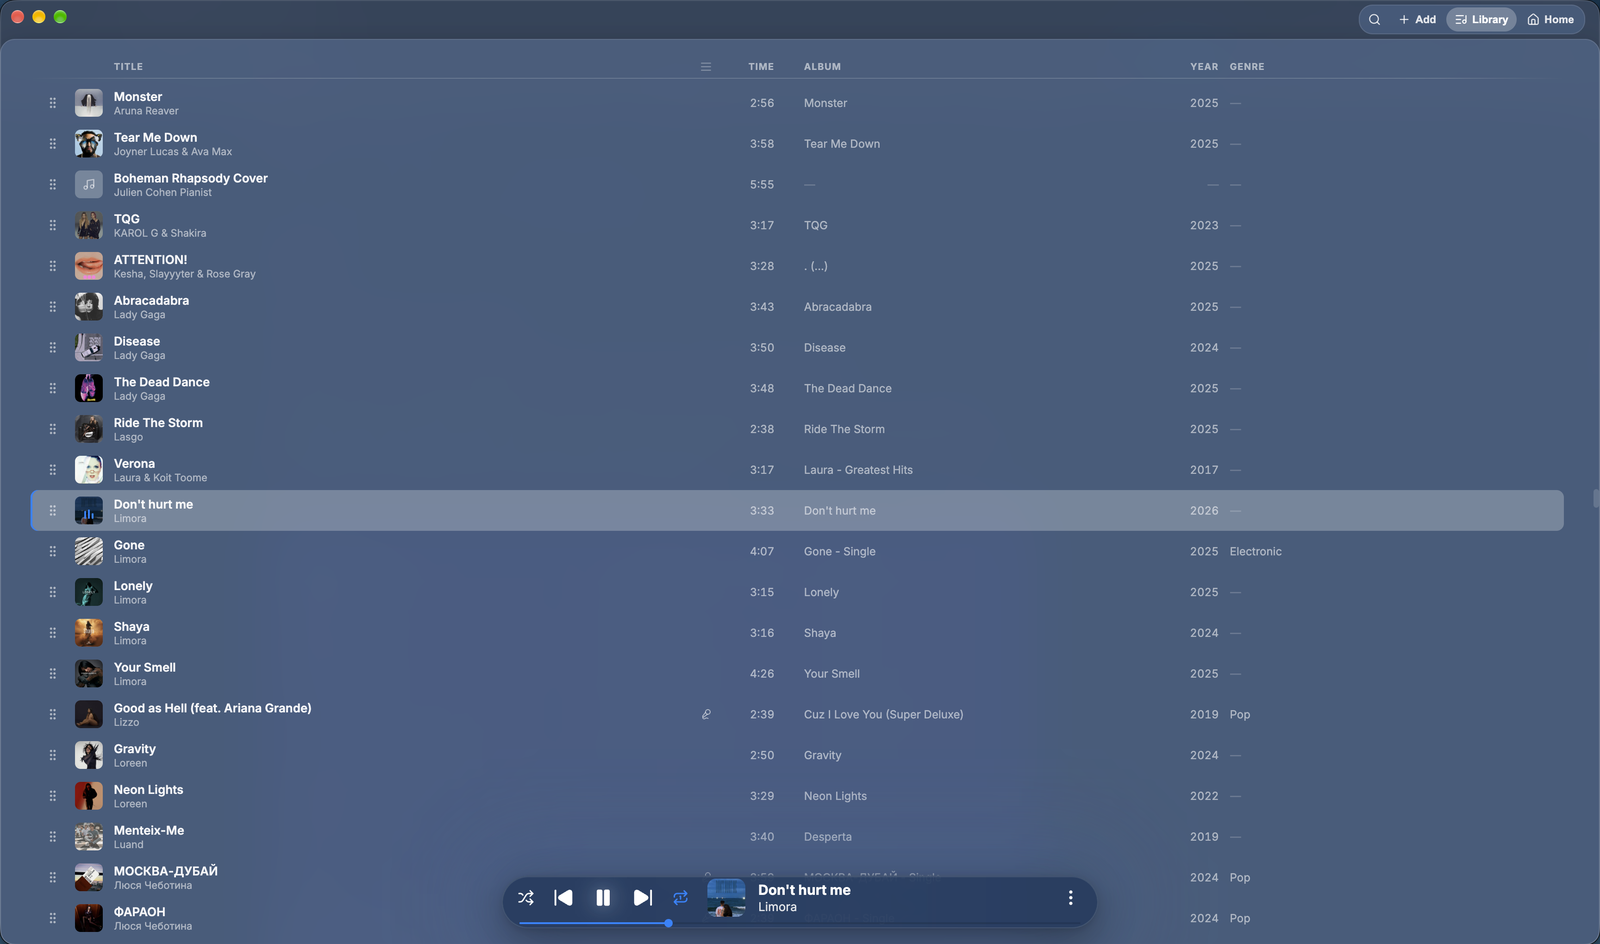
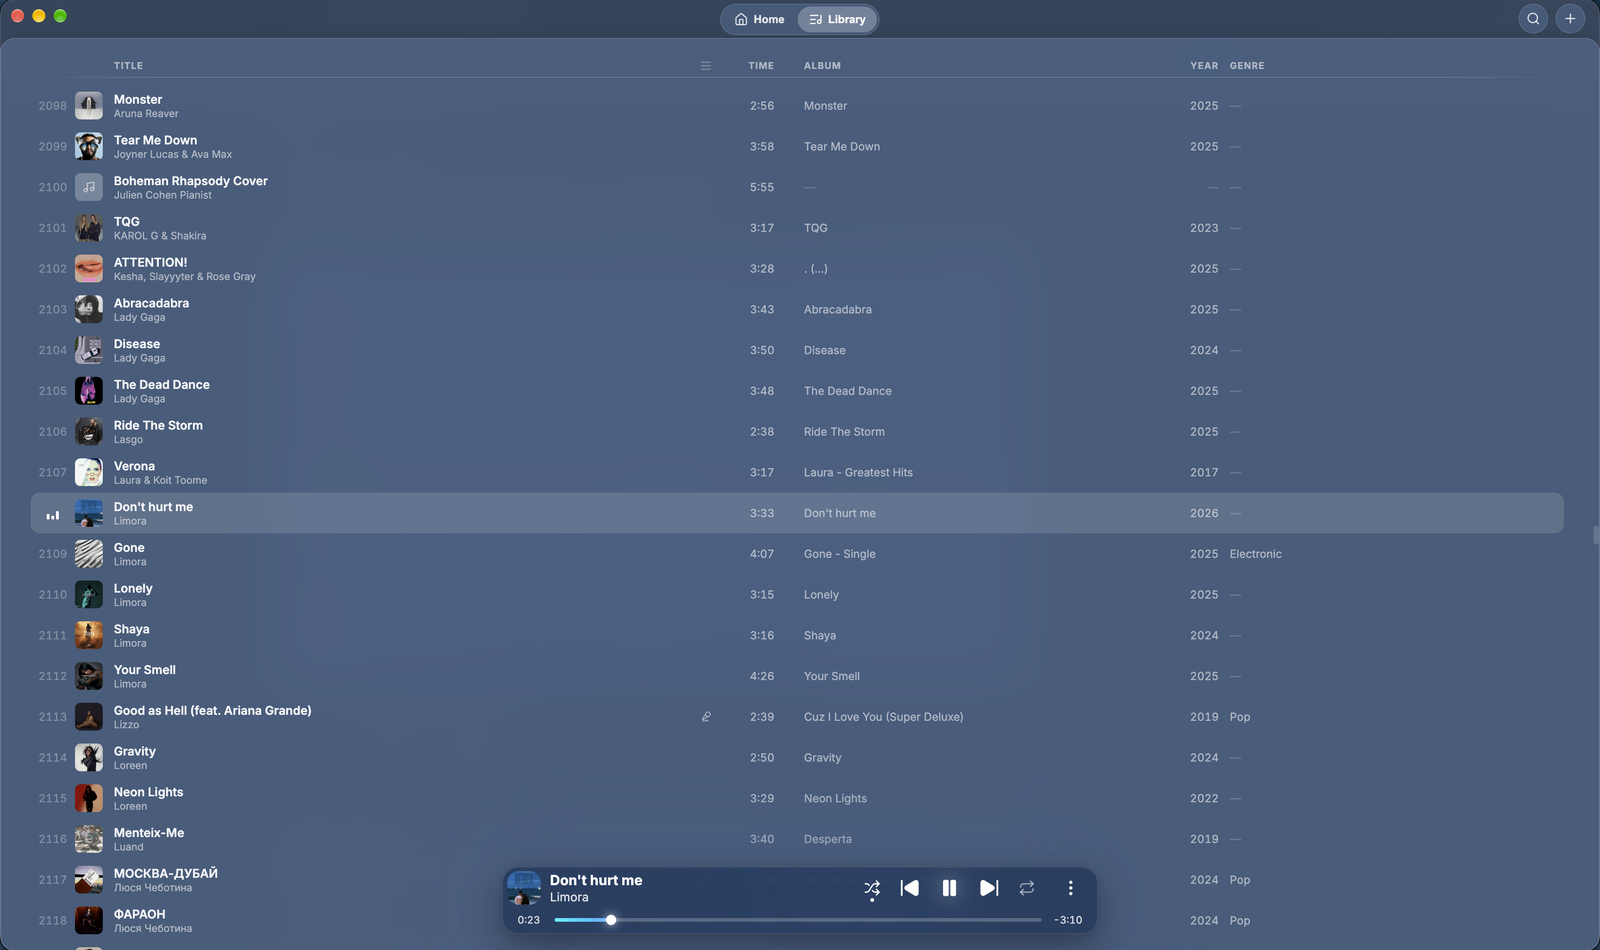
Rewrite the README for 1.7 with new screenshots and a Chill mode GIF
Covers Chill mode, the three window modes, the menus and shortcuts, the
add-songs dialog and search, and replaces every screenshot with a fresh
capture, exported at 1600px. Two spots that showed a personal name in a
track title are blurred.

diff --git a/README.md b/README.md
@@ -6,7 +6,7 @@
 
 **A beautiful, native-feeling music player for macOS.**
 
-Glassmorphic UI, a tag editor that actually writes to disk, and it stays smooth at 20,000 tracks.
+Glassmorphic UI, a tag editor that actually writes to disk, scenes for when you just want to sit back and listen — and it stays smooth at 20,000 tracks.
 
 [![Latest release](https://img.shields.io/github/v/release/panawel/sonus-player?style=flat-square&color=0A84FF)](https://github.com/panawel/sonus-player/releases/latest)
 [![Downloads](https://img.shields.io/github/downloads/panawel/sonus-player/total?style=flat-square&color=0A84FF)](https://github.com/panawel/sonus-player/releases)
@@ -25,6 +25,17 @@ Glassmorphic UI, a tag editor that actually writes to disk, and it stays smooth 
 **[⬇ Download Sonus for macOS](https://github.com/panawel/sonus-player/releases/latest)** — universal `.dmg`, runs natively on both Intel and Apple Silicon.
 
 Open the `.dmg`, drag **Sonus** to your Applications folder, then read the next section before launching — it takes ten seconds and saves confusion.
+
+### What's new in 1.7
+
+- **[Chill mode](#chill-mode)** — turn Now Playing into a scene: a spinning turntable, a hammock by the sea, or a rainy study room. Rain, waves, lightning, and the song's own lyrics typed out on a laptop.
+- **[Three window modes](#one-window-three-shapes)** — normal, phone-narrow, and a tiny mini player, switchable from the **File** menu or by simply resizing.
+- **[A real menu bar](#menus-and-shortcuts)** — a rebuilt **File** menu and a new **Controls** menu, with keyboard shortcuts for everything.
+- **[Search](#search)** is now a floating panel (`⌘F`) over whatever page you're on.
+- **[A clearer add-songs dialog](#adding-music)** that says what each choice does, and works in every window size.
+- **A calmer track list** — white selection, animated "now playing" bars, a footer with the song count and total time, and a refreshed icon.
+
+---
 
 ## Opening Sonus the first time
 
@@ -55,7 +66,7 @@ xattr -dr com.apple.quarantine /Applications/Sonus.app
 Every release publishes **SHA-256 checksums** so you can verify your download matches what was built:
 
 ```bash
-shasum -a 256 ~/Downloads/Sonus-1.0.0-universal.dmg
+shasum -a 256 ~/Downloads/Sonus-1.7.0-universal.dmg
 ```
 
 > Prefer not to run unsigned software? [Build it yourself](#building-from-source) — it's four commands.
@@ -66,9 +77,9 @@ shasum -a 256 ~/Downloads/Sonus-1.0.0-universal.dmg
 
 ### A real music library, not a file list
 
-Drop a folder in and Sonus reads the tags, extracts cover art, and builds a browsable library. Sorting is driven by clicking a column — no menus. Multi-select with `⇧`/`⌘`, drag to reorder, delete with `⌫`.
+Drop a folder in and Sonus reads the tags, extracts cover art, and builds a browsable library. Sorting is driven by clicking a column — no menus. Multi-select with `⇧`/`⌘`, drag to reorder, delete with `⌫`. The song playing right now is marked with animated bars where its number would be, the selection is a clean white ring, and a footer under the list tells you how many songs you're looking at and how long they run.
 
-**It stays fast when the library gets big.** Every screenshot here is a real ~4,400-track library, and the track list is fully virtualized: at 20,000 tracks fewer than 80 rows exist in the DOM at any moment, and re-sorting the whole library is effectively instant. Album art never lives in memory as base64 — tracks carry a thumbnail reference, and full-resolution art is loaded only when something actually displays it.
+**It stays fast when the library gets big.** Every screenshot here is a real ~4,000-track library, and the track list is fully virtualized: at 20,000 tracks fewer than 80 rows exist in the DOM at any moment, and re-sorting the whole library is effectively instant. Album art never lives in memory as base64 — tracks carry a thumbnail reference, and full-resolution art is loaded only when something actually displays it.
 
 <img src="docs/assets/library.png" alt="Library view" width="860">
 
@@ -78,30 +89,82 @@ Not a dashboard for its own sake: every panel is a way into your music. A rotati
 
 <img src="docs/assets/home.png" alt="Home view" width="860">
 
-Further down, your library as data: songs by year, a sound-quality breakdown by bitrate, how complete your metadata actually is, and a language split. Every segment is clickable — tap the 128 kbps slice to see exactly which tracks are dragging your library down, or the 2,192 missing lyrics to go fix them.
+Further down, your library as data: songs by year, a sound-quality breakdown by bitrate, how complete your metadata actually is, and a language split. Every segment is clickable — tap the 128 kbps slice to see exactly which tracks are dragging your library down, or the missing lyrics to go fix them.
 
 <img src="docs/assets/stats.png" alt="Library statistics — songs by year, sound quality, completeness and languages" width="860">
 
-Click any artist, album, year or quality tier and you land on its own page, with the same track list engine and a Play All / Shuffle header.
+Click any artist, album, year or quality tier and you land on its own page, with the same track list engine, a Play All / Shuffle header, and a right-click menu for Play Next, Start Mix, Edit Tags, Reveal in Finder and more.
 
-<img src="docs/assets/artist.png" alt="Artist detail view" width="860">
+<img src="docs/assets/details.png" alt="Artist details page with the track context menu" width="860">
+
+### Search
+
+`⌘F` (or the search button) opens a floating panel over whatever page you're on: artists, albums and songs from your whole library — or just the page you're looking at, when you're on a details page. The list behind it filters live as you type.
 
 ### Now Playing
 
-Full-screen artwork with an ambient colour wash sampled from the cover, and embedded lyrics in a side panel — with right-to-left script detection, so Hebrew and Arabic lyrics render correctly instead of backwards.
+Full-window artwork with an ambient colour wash sampled from the cover, and embedded lyrics in a side panel — with right-to-left script detection, so Hebrew and Arabic lyrics render correctly instead of backwards.
 
-<img src="docs/assets/now-playing.png" alt="Now Playing with lyrics" width="860">
+<img src="docs/assets/now-playing-lyrics.png" alt="Now Playing with lyrics" width="860">
 
-### Resizes down to phone width
+The player floats at the bottom of every page as a glass pill: artwork, seek line, and transport controls. **Shuffle** and **repeat** show a small dot under the icon when they're on, so you can tell at a glance.
 
-The window isn't locked to one desktop shape — it resizes all the way down to phone-portrait proportions (as narrow as ~380px). Below that point the whole interface reflows rather than just shrinking: Search/Add/Library/Home collapse to a single icon-only pill, the player collapses to a compact bar with cover art and playback controls, and Now Playing switches to a single-column view with a tab for lyrics. Same library, same tag editor, same controls — just narrower.
+### Chill mode
 
-<p>
-<img src="docs/assets/narrow-home.png" alt="Home at phone-portrait width" width="300">
-<img src="docs/assets/narrow-library.png" alt="Library at phone-portrait width" width="300">
-<img src="docs/assets/artist-narrow.png" alt="Artist detail view at phone-portrait width" width="300">
-<img src="docs/assets/narrow-now-playing.png" alt="Now Playing at phone-portrait width" width="300">
+At full width, one click (or **File → Chill Mode**, `⇧⌘C`) turns Now Playing into a scene, picked from a small popup. The song's artwork is part of every one:
+
+- **The turntable** — the artwork becomes the spinning record.
+- **The hammock** — the artwork is the screen of a phone held by someone swinging by the sea. The palms sway, the sea shimmers, waves wash up the shore, and the whole hammock rocks.
+- **The study room** — the artwork hangs on the posters and polaroids of a rainy room. Rain runs down the window, lightning flashes now and then, steam rises from the mug, and a girl types — and stops — to your music. On her laptop's screen: the song's own lyrics, when it has them.
+
+<div align="center">
+<img src="docs/assets/chill-mode.gif" alt="Chill mode — the turntable scene" width="800">
+</div>
+
+A minimal bar fades away (traffic lights and all) when you stop moving the mouse, and the framing adapts to any window size.
+
+### One window, three shapes
+
+The window isn't locked to one desktop shape. Pick a shape from the **File** menu — or just drag the window's edge:
+
+| | Size | What changes |
+| --- | --- | --- |
+| **Filled Screen Mode** | fills the screen | the full desktop layout |
+| **Narrow Mode** | 440 × 760 | a phone-portrait layout: icon-only tabs, a compact player, and a single-column Now Playing with a Song/Lyrics switch |
+| **Mini Mode** | 380 × 200 | just the artwork, track, seek line and transport controls |
+
+Same library, same tag editor, same controls — just narrower. Make a window short and it becomes the mini player; make it tall again and you're back exactly where you were.
+
+<p align="center">
+<img src="docs/assets/narrow-home.png" alt="Home at phone-portrait width" width="200">
+<img src="docs/assets/narrow-library.png" alt="Library at phone-portrait width" width="200">
+<img src="docs/assets/narrow-details.png" alt="Artist details page at phone-portrait width" width="200">
+<img src="docs/assets/narrow-now-playing.png" alt="Now Playing at phone-portrait width" width="200">
 </p>
+
+<p align="center">
+<img src="docs/assets/mini-mode.png" alt="The mini player" width="380">
+</p>
+
+### Adding music
+
+Drag files or folders onto the window, press `⌘O`, or use the **+** button. If your library already has songs, Sonus asks what you want — and tells you, on hover, exactly what each choice does:
+
+- **Play now** — replaces your current library with these songs and starts playing
+- **Play next** — right after the current song
+- **Add to queue** — at the end of your library
+
+The dialog has its own compact layout for the mini player, and you can still drag the window around while it's open.
+
+### Menus and shortcuts
+
+Everything is in the menu bar, with shortcuts that stay out of the way of typing (Space still types a space in a search box).
+
+| | |
+| --- | --- |
+| **File** | Add Music `⌘O` · Filled Screen Mode `⌃⌘M` · Narrow Mode `⌥⌘2` · Mini Mode `⌥⌘3` · Chill Mode `⇧⌘C` |
+| **Controls** | Play/Pause `Space` · Next `⌥⌘→` · Previous `⌥⌘←` · Shuffle `⇧⌘S` · Repeat `⌥⌘R` (off / all / one) · Go to Current Song `⌘L` |
+| **Anywhere** | Search `⌘F` · Select all `⌘A` · Remove from list `⌫` · Seek ±5 s `←` `→` · Leave mini player or Chill mode `Esc` |
 
 ### A tag editor that writes to the file
 
@@ -178,11 +241,13 @@ npm run lint
 ./scripts/verify-bundle.sh   # structural checks on a packaged .app
 ```
 
-There's also an end-to-end smoke suite that runs against the **built** app — real Electron, real Chromium — covering the metadata pipeline, tag round-trips for all three writable formats, launch behaviour, the tracklist UI, and a 20,000-track performance bench:
+There's also an end-to-end smoke suite that runs against the **built** app — real Electron, real Chromium — covering the metadata pipeline, tag round-trips for all three writable formats, launch behaviour, the track list, every window mode, the menus, Chill mode's scenes, and a 20,000-track performance bench:
 
 ```bash
 npx vite build && npx electron . --smoke
 ```
+
+While developing, run just the part you touched: `npx electron . --smoke --only=menus`.
 
 See [`BUILD_INSTRUCTIONS.md`](BUILD_INSTRUCTIONS.md) for the full packaging walkthrough.
 
@@ -190,7 +255,7 @@ See [`BUILD_INSTRUCTIONS.md`](BUILD_INSTRUCTIONS.md) for the full packaging walk
 
 Electron main process, a preload bridge, and a React 19 renderer, with strict separation between them — the renderer has no Node access and every capability it has is declared explicitly in the preload.
 
-If you're curious how it's put together, [`docs/ARCHITECTURE.md`](docs/ARCHITECTURE.md) is a genuine deep dive: how the metadata index and thumbnail cache keep large libraries cheap, why the tracklist column header lives outside the scroll container, how launch arbitration decides what library you get when you double-click a file, and a number of hard-won constraints that fail silently if you break them.
+If you're curious how it's put together, [`docs/ARCHITECTURE.md`](docs/ARCHITECTURE.md) is a genuine deep dive: how the metadata index and thumbnail cache keep large libraries cheap, why the track list's column header lives outside the scroll container, how launch arbitration decides what library you get when you double-click a file, how Chill mode's animated scenes are built, and a number of hard-won constraints that fail silently if you break them.
 
 ## Built with
 
